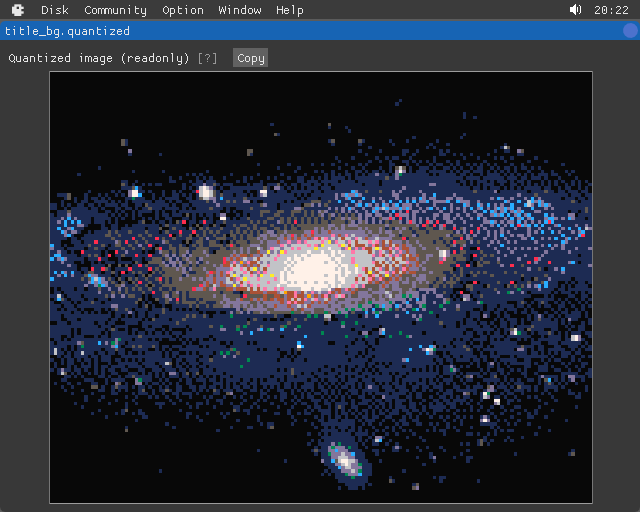
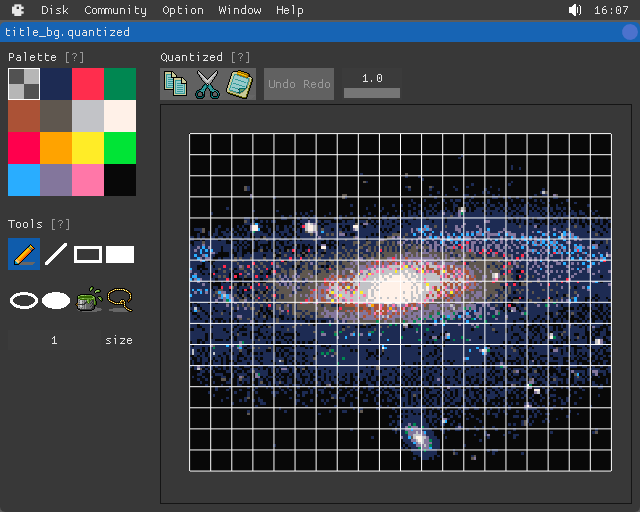
*v1.1.2.

diff --git a/docs/manual.md b/docs/manual.md
@@ -812,10 +812,10 @@ These functions are used to create, load or extract graphics objects and values:
 	* `path`: path of a resource, can be "*.sprite", "*.map" or "*.quantized" files; uses the content directory of a disk as lookup root
 	* returns successfully loaded resource; or nil for sprite and quantized, empty list for map
 * `LOAD_BLANK(y, w, h, n = 1)`: loads a blank resource
-	* `y`: type of a resource, can be "sprite" or "map"
+	* `y`: type of a resource, can be "sprite", "map" or "quantized"
 	* `w`: width of a frame/layer
 	* `h`: height of a frame/layer
-	* `n`: count of sprite frames, or map layers
+	* `n`: count of sprite frames, or map layers; ignored by quantized
 * `CLONE(g)`: clones a graphics object, and its states
 	* `g`: source graphics object, can be sprite, map or quantized
 	* returns cloned graphics object
@@ -862,6 +862,10 @@ These functions are used to manipulate the states of a sprite:
 * `ELLIPSEFILL x, y, rx, ry [, c]`: draws a filled ellipse
 * `RECT x0, y0, x1, y1 [, c]`: draws a rectangle
 * `RECTFILL x0, y0, x1, y1 [, c]`: draws a filled rectangle
+* `TRI x0, y0, x1, y1, x2, y2 [, c]`: draws a triangle
+* `TRIFILL x0, y0, x1, y1, x2, y2 [, c]`: draws a filled triangle
+* `QUAD x0, y0, x1, y1, x2, y2, x3, y3 [, c]`: draws a quadrangle
+* `QUADFILL x0, y0, x1, y1, x2, y2, x3, y3 [, c]`: draws a filled quadrangle
 
 * `PGET i`: gets a color of a palette, at a specific index
 * `PSET i, c, ip = FALSE`: sets a color of a palette; only affects during driver's updating
@@ -920,6 +924,10 @@ The beginning index of map layer is 0. Moreover, layer 0 is for the purpose of l
 * `SIMG i, sx, sy, sw, sh, x, y [, w [, h, r = 0, q = 0, fx = FALSE, fy = FALSE]]`: stretches rectangle from a quantized image `sx, sy, sw, sh`, and draws in rectangle `x, y, w, h`
 	* `w`: defaults to `sw`
 	* `h`: defaults to `sh`
+
+* `IGET i, x, y`: gets the color index of a quantized image, at a specific position
+* `ISET i, x, y, v`: sets the color index of a quantized image, at a specific position
+	* `v`: color index
 
 ## Input
 
@@ -1089,11 +1097,11 @@ To open and edit a tiles asset, open an existing map asset first, then click the
 
 ### Quantized asset
 
-A quantized image is a readonly paletted image. The only way in BASIC8 to create a quantized image is importing from an existing image file, it supports "*.png", "*.bmp" and "*.tga" files.
+A quantized image is a paletted image. There are two ways in BASIC8 to create a quantized image, one is creating a blank with specific size, the other one is importing from an existing image file (it supports "*.png", "*.bmp" and "*.tga" files).
 
-To create a new quantized image asset, click `Disk`, `New asset`, `Quantized image`, then browse and import from an image file.
+To create a new quantized image asset, click `Disk`, `New asset`, `Quantized image`, then fill in size to create a blank, or browse and import from an image file.
 
-To open an existing quantized image asset, click `Disk`, `Open asset`, then select a "*.quantized" asset. It's for preview only.
+To open an existing quantized image asset, click `Disk`, `Open asset`, then select a "*.quantized" asset.
 
 To rename a quantized image asset, click `Disk`, `Rename asset`, then select a "*.quantized" asset.
 
@@ -1500,6 +1508,7 @@ m41, m42, m43, m44
 These functions are used to construct vector and matrix:
 
 * `VEC2(x = 0, y = 0)`: constructs a "vec2" with two real numbers
+* `VEC2(v3)`: constructs a "vec2" with a "vec3", takes two components and ignores the last one
 * `VEC3(x = 0, y = 0, z = 0)`: constructs a "vec3" with three real numbers
 * `VEC3(v2, z = 0)`: constructs a "vec3" with a "vec2" and a real number
 * `VEC4(x = 0, y = 0, z = 0, w = 1)`: constructs a "vec4" with some real numbers
@@ -1644,8 +1653,8 @@ Some words are not implemented for actual functions, yet they are reserved for f
 * `NET`, `SOCKET`, `SEND`, `RECV`, `RECEIVE`
 * `NOISE`
 * `PAIR`, `TUPLE`
-* `PLOT`
-* `TRI`, `TRIFILL`, `TRITEX`, `POLY`, `POLYFILL`, `POLYTEX`
+* `PLOT`, `POLY`, `POLYFILL`, `POLYTEX`
+* `TRITEX`, `QUADTEX`
 
 ## Type names
 

diff --git a/docs/changelog.md b/docs/changelog.md
@@ -1,3 +1,26 @@
+<!-- Changes are categorized in community, language, libraries, editor. -->
+
+### v1.1.2
+
+Language:
+
+* Fix a crash bug with invalid collection index
+* Fix a memory leak with invalid invoking
+
+Libraries:
+
+* Add a loading option to `LOAD_BLANK` for quantized image
+* Add `TRI`, `TRIFILL` functions to draw triangles
+* Add `QUAD`, `QUADFILL` functions to draw quadrangles
+* Add `IGET`, `ISET` functions to access quantized image
+* Add a new constructor to `VEC2`
+* Fix a palette color setting issue
+* Fix a color interpolation bug
+
+Editor:
+
+* Add an editor for quantized image
+
 ### v1.1.1
 
 Libraries:

diff --git a/pages/gallery.md b/pages/gallery.md
@@ -8,7 +8,7 @@ Create maps as well:
 
 ![](imgs/creating_maps.png)
 
-Import and quantize images:
+Import and edit quantize images:
 
 ![](imgs/importing_images.png)
 
